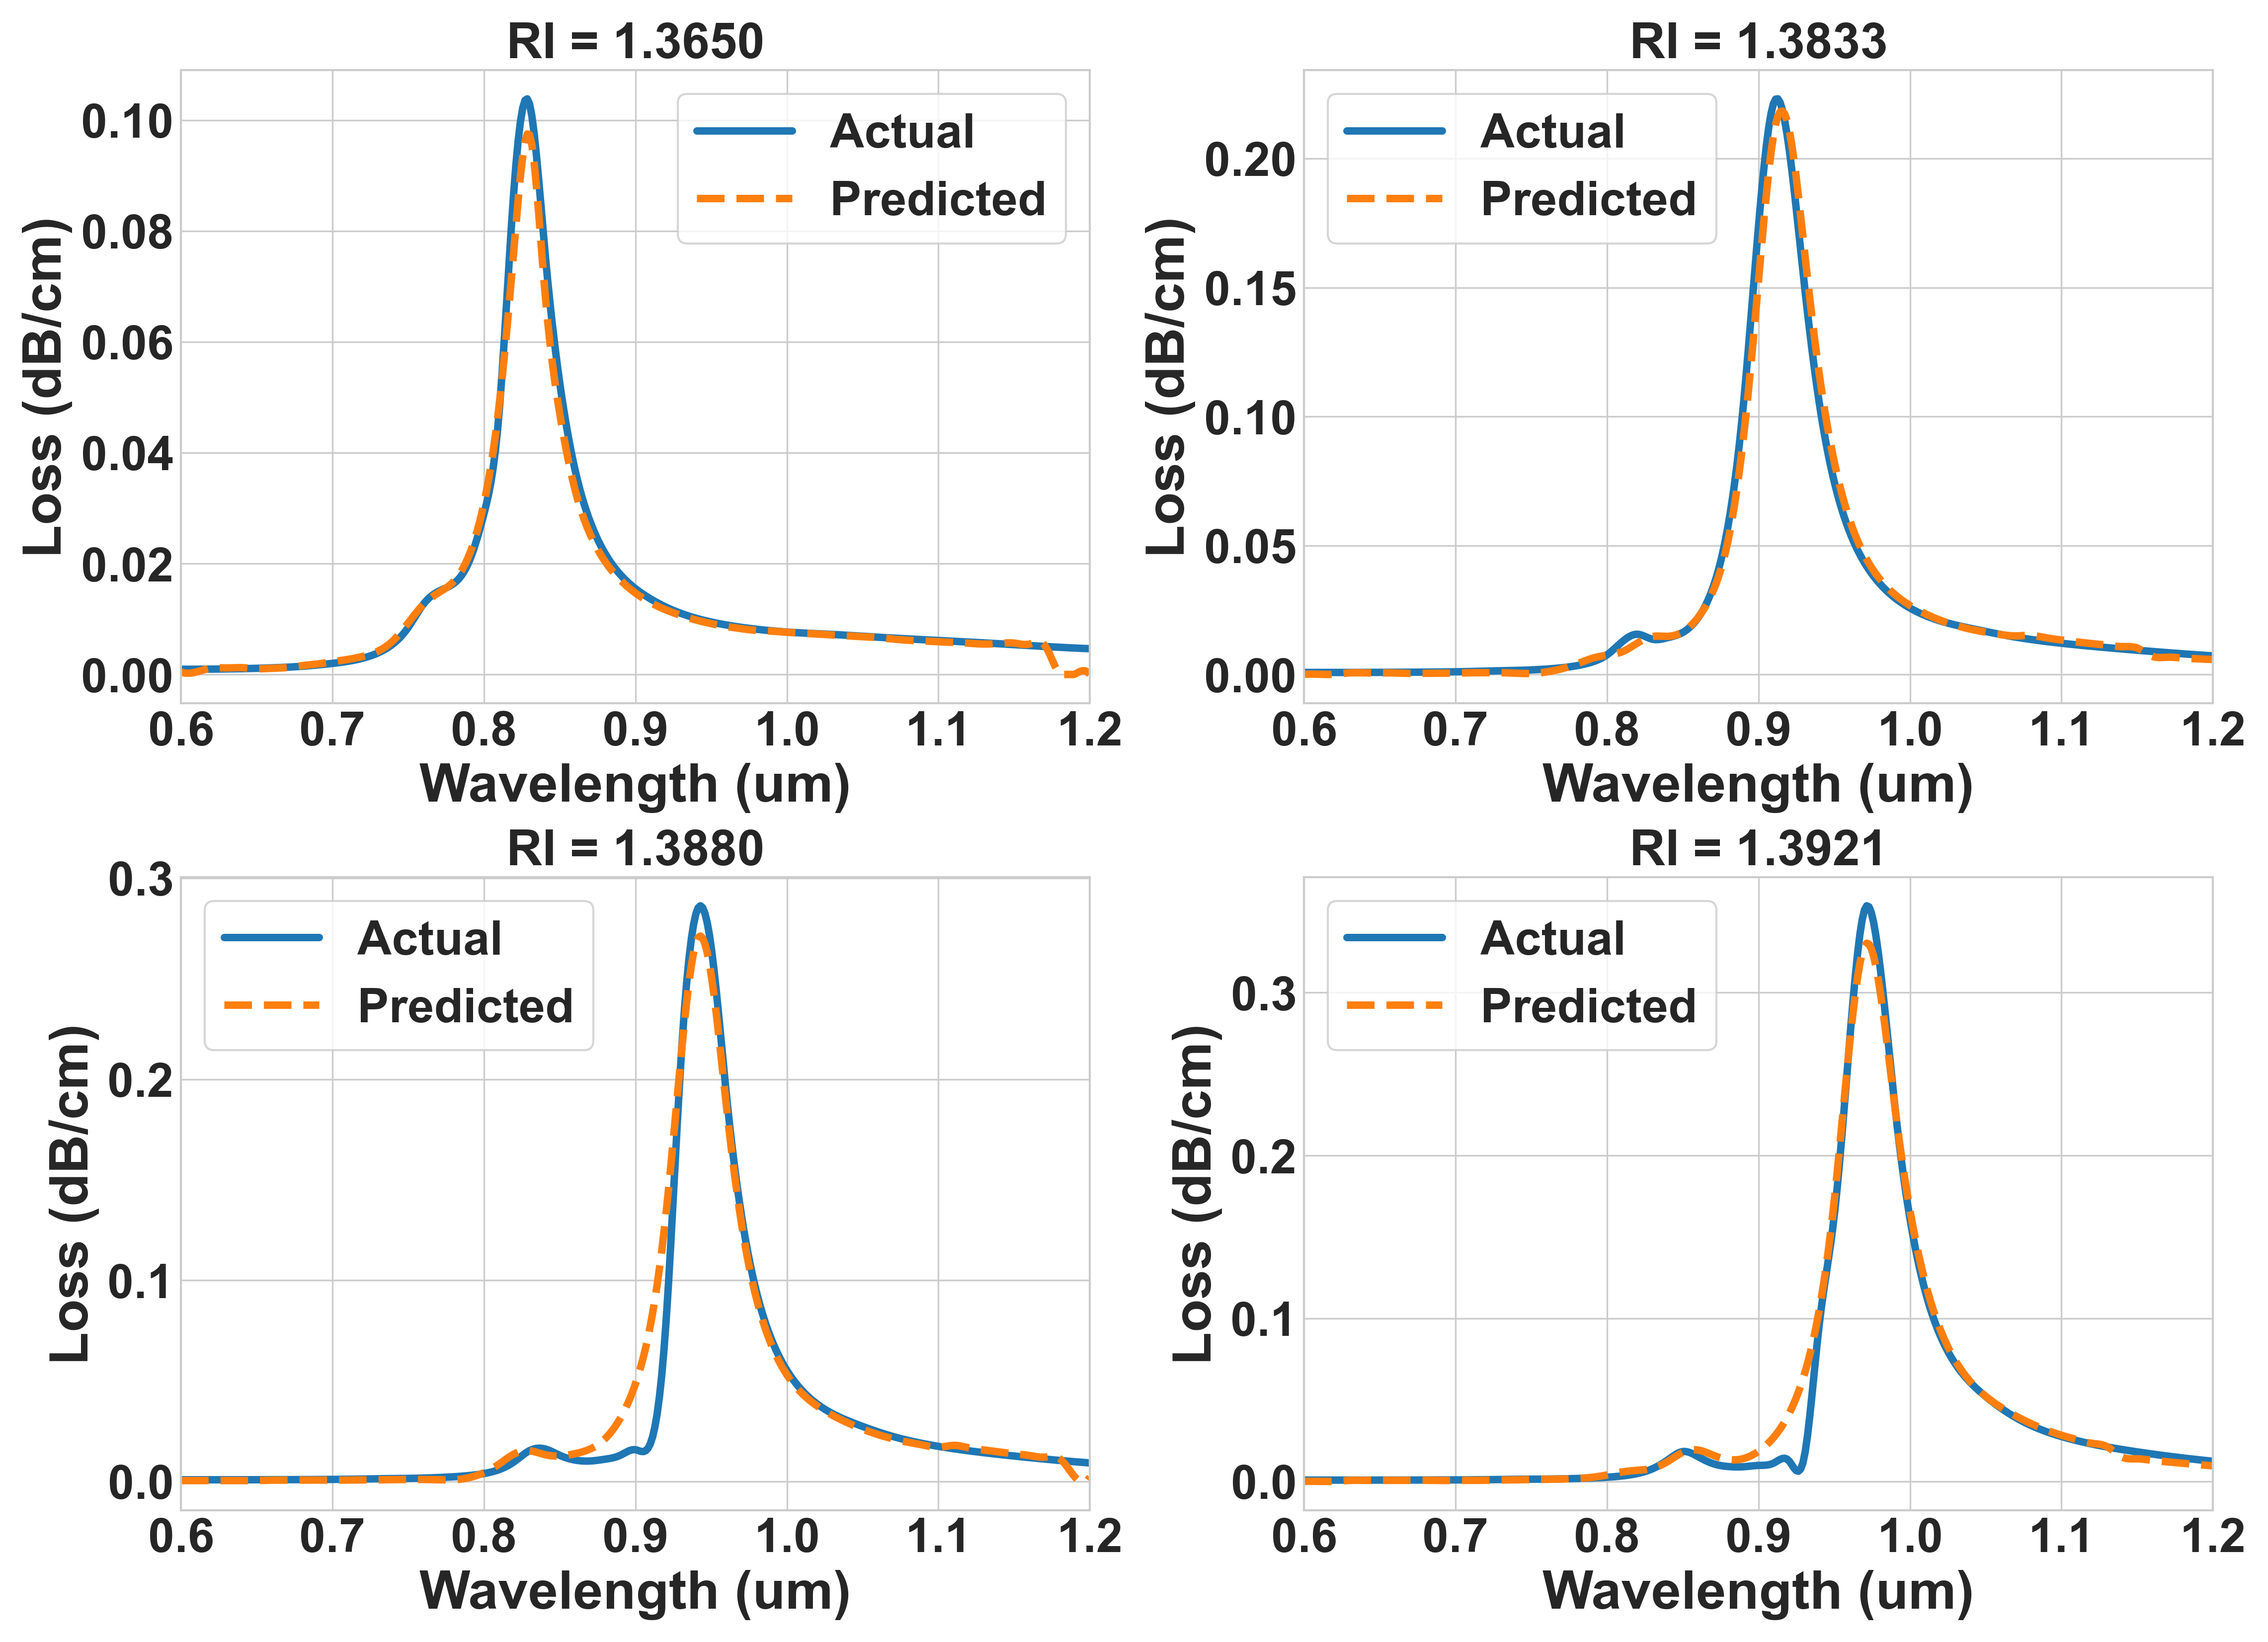
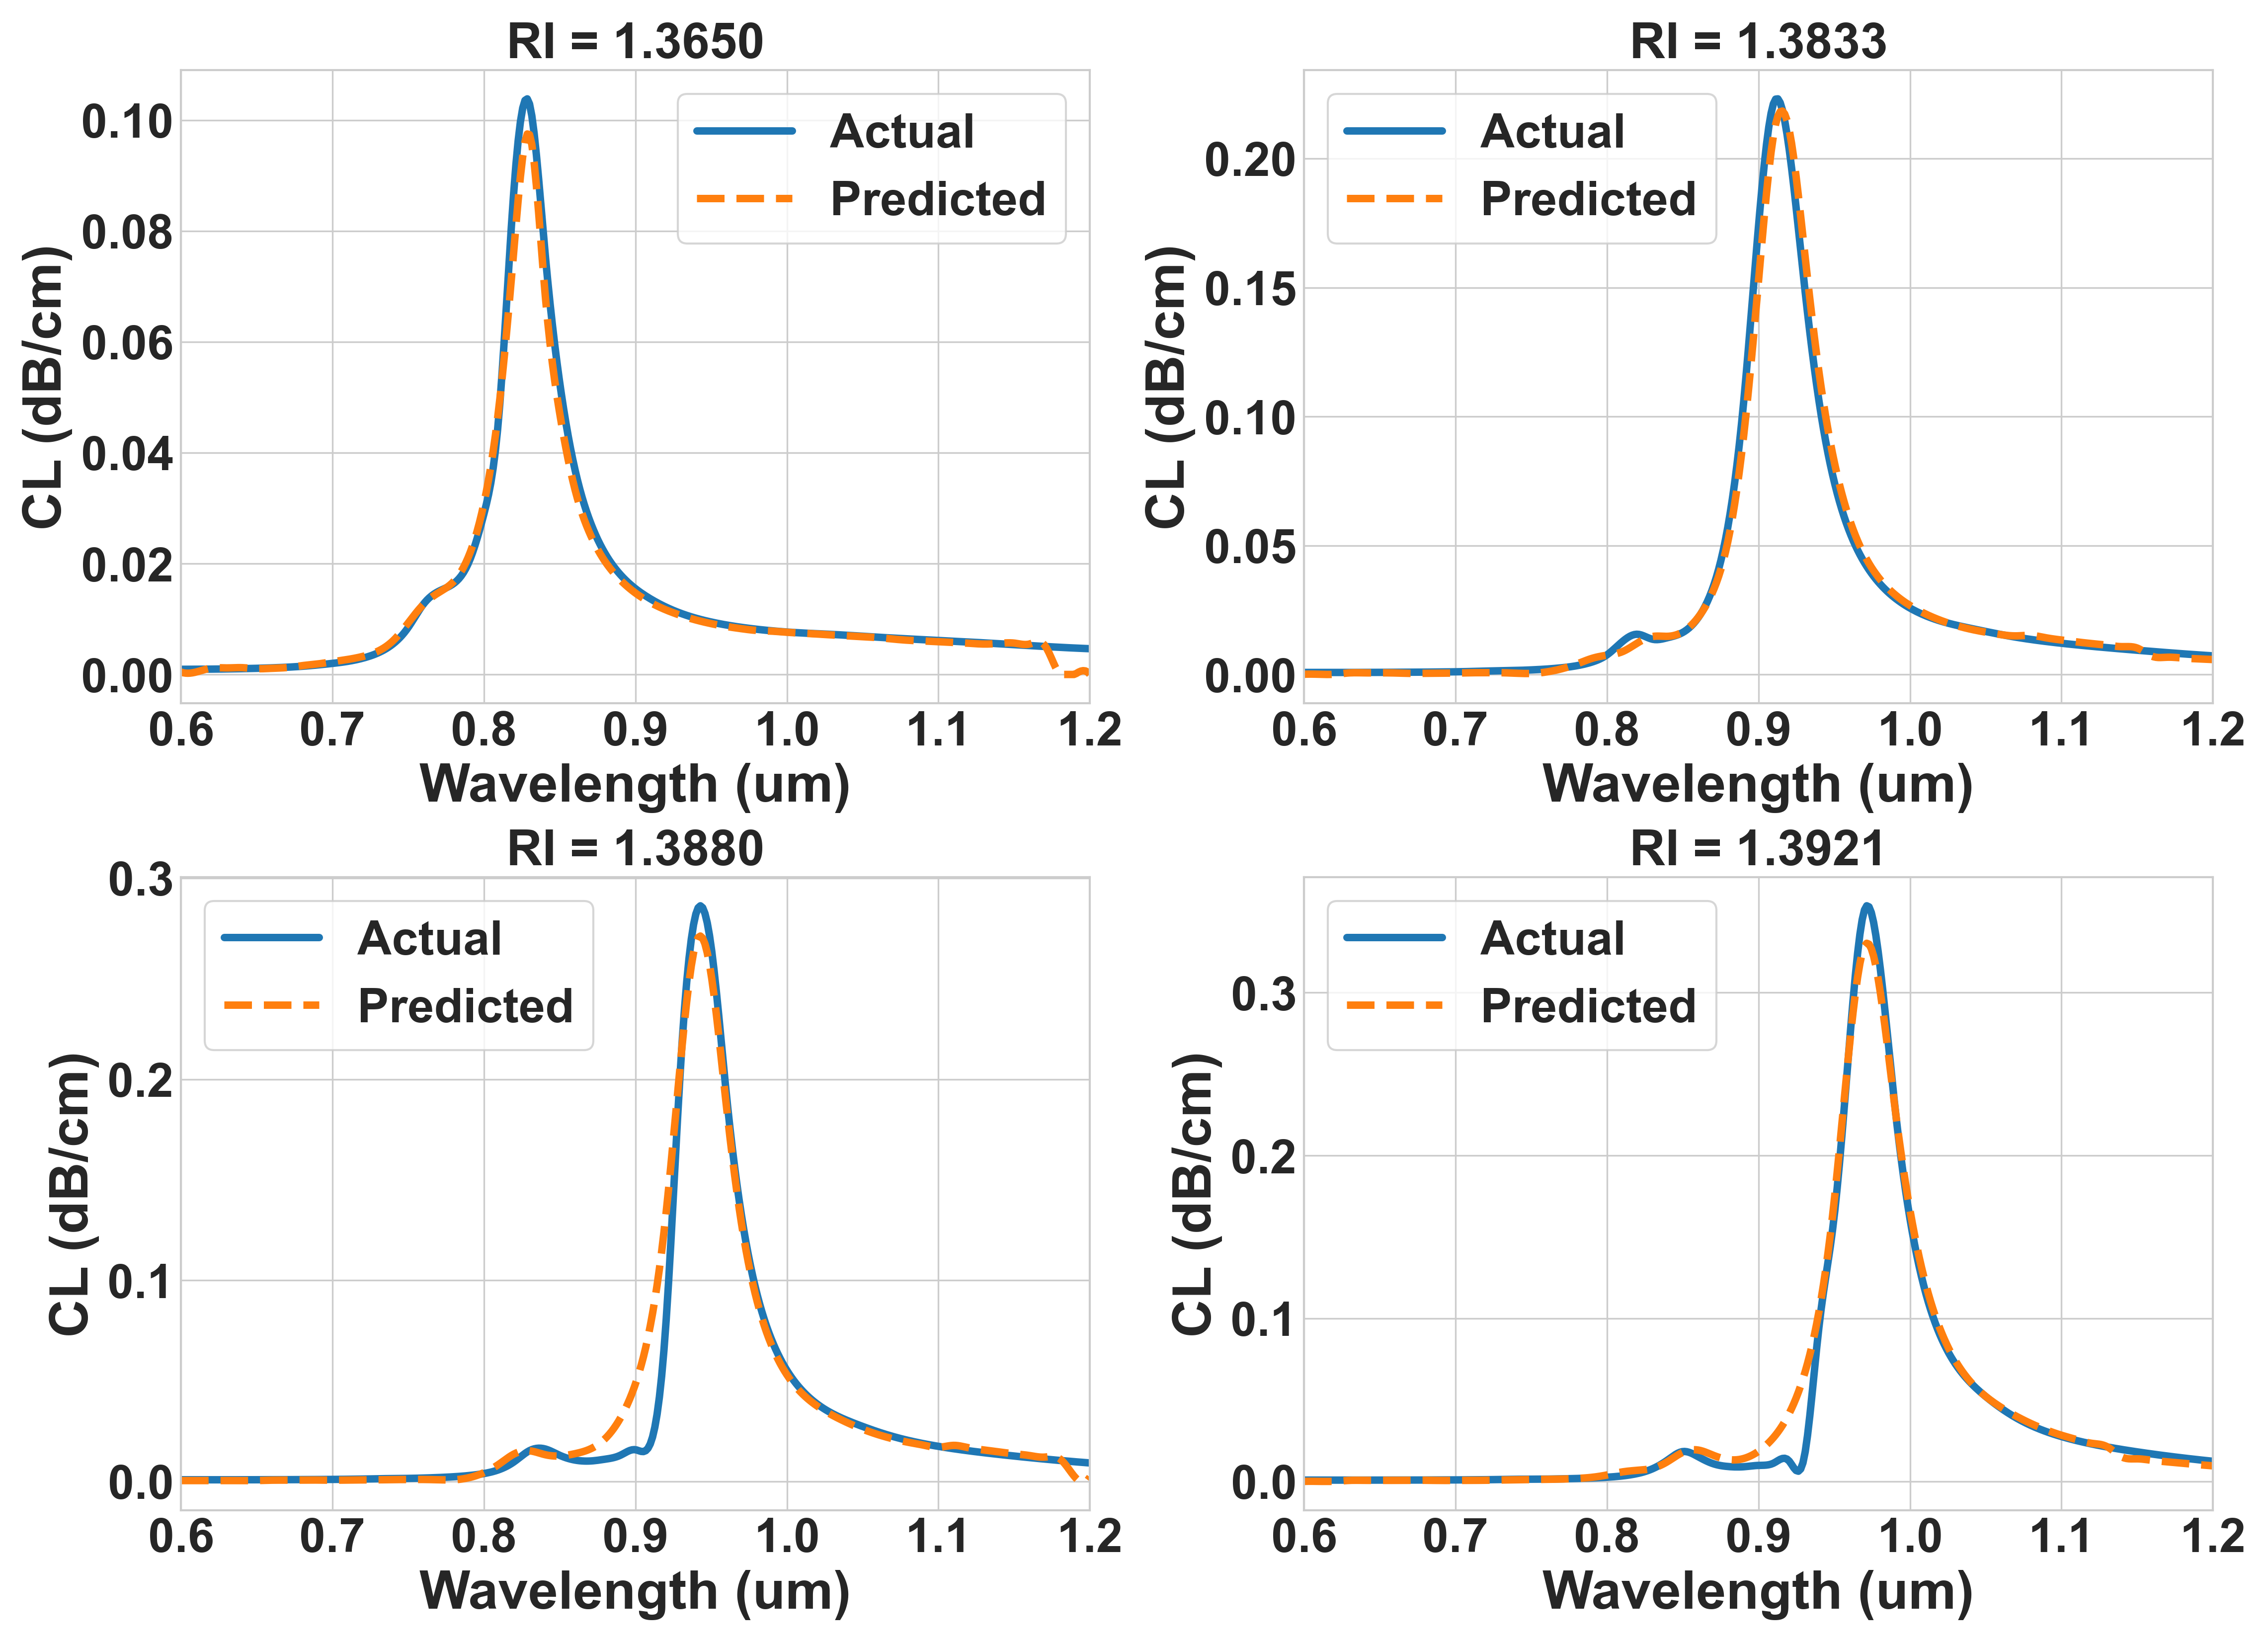
Update figure captions and labels to enhance clarity and consistency in ML paper assets

diff --git a/Research_Soumik/elsevier_single_column_pcf_spr_sensor.tex b/Research_Soumik/elsevier_single_column_pcf_spr_sensor.tex
@@ -616,12 +616,12 @@ This separates the prediction into three simpler parts: peak position, peak heig
 \hat{s}\left(\lambda-\hat{\lambda}_p\right),
 \label{eq:peak_restore}
 \end{equation}
-where $\hat{\lambda}_p$ is the predicted resonance wavelength, $\hat{z}_p=\log(\hat{A}_p)$ is the predicted logarithmic peak loss, and $\hat{s}$ is the predicted normalized shape. This alignment idea is consistent with curve registration, where phase or position variation is reduced before comparing functional responses \cite{ramsay2005functional,ramsay1998curve,marron2015functional}.
+where $\hat{\lambda}_p$ is the predicted resonance wavelength, $\hat{z}_p=\log(\hat{A}_p)$ is the predicted logarithmic peak loss, and $\hat{s}$ is the predicted normalized shape. This alignment idea is consistent with curve registration and landmark-based alignment, where identifiable features such as peaks are used to reduce phase or position variation before comparing functional responses \cite{ramsay2005functional,ramsay1998curve,james2007curve,marron2015functional}.
 
 \begin{figure}[!t]
     \centering
     \includegraphics[width=1.0\textwidth]{ML_peak_alignment.png}
-    \caption{Peak-alignment procedure used before GPR prediction: (a) original confinement loss spectra, (b) shifted spectra with resonance peaks moved to zero wavelength offset, and (c) normalized spectra after dividing by the peak loss.}
+    \caption{Peak-alignment procedure used before GPR prediction: (a) original CL spectra, (b) shifted spectra with resonance peaks moved to zero wavelength offset, and (c) normalized spectra after dividing by the peak CL, where CL denotes confinement loss.}
     \label{fig:ml_peak_alignment}
 \end{figure}
 
@@ -631,13 +631,15 @@ The testing performance of the direct GPR and peak-aligned GPR models is summari
 \centering
 \caption{Testing performance comparison between direct GPR and peak-aligned GPR.}
 \label{tab:ml_model_comparison}
-\renewcommand{\arraystretch}{1.25}
-\setlength{\tabcolsep}{4pt}
-\scriptsize
+\renewcommand{\arraystretch}{1.35}
+\setlength{\tabcolsep}{6pt}
+\small
 \resizebox{\textwidth}{!}{%
 \begin{tabular}{|l|c|c|c|c|c|}
 \hline
-\textbf{Model} & $\boldsymbol{R^2}$ & \textbf{MAE} & \textbf{RMSE} & \textbf{Mean peak WL error (\textmu m)} & \textbf{Mean peak loss error} \\
+\textbf{Model} & $\boldsymbol{R^2}$ & \textbf{MAE} & \textbf{RMSE} &
+\begin{tabular}[c]{@{}c@{}}\textbf{Mean peak WL}\\\textbf{error (\textmu m)}\end{tabular} &
+\begin{tabular}[c]{@{}c@{}}\textbf{Mean peak CL}\\\textbf{error}\end{tabular} \\
 \hline
 Direct GPR & 0.7137 & 0.01485 & 0.02995 & 0.0175 & 0.03640 \\
 \hline
@@ -683,7 +685,7 @@ $\boldsymbol{\hat{\lambda}_p}$ \textbf{(\textmu m)} & $\boldsymbol{\hat{A}_p}$ \
 \begin{figure}[!t]
     \centering
     \includegraphics[width=1.0\textwidth]{ML_peak_aligned_gpr_prediction.png}
-    \caption{Actual and predicted confinement loss spectra for the held-out pathogen RI samples using the peak-aligned GPR model.}
+    \caption{Actual and predicted CL spectra for the held-out pathogen RI samples using the peak-aligned GPR model, where CL denotes confinement loss.}
     \label{fig:ml_peak_aligned_gpr_prediction}
 \end{figure}
 

diff --git a/generate_ml_paper_assets.py b/generate_ml_paper_assets.py
@@ -74,16 +74,16 @@ def save_peak_alignment():
 
     axes[0].set_title("(a) Original", fontsize=TITLE_SIZE, weight="bold")
     axes[0].set_xlabel("Wavelength (um)", fontsize=AXIS_LABEL_SIZE, weight="bold")
-    axes[0].set_ylabel("Loss (dB/cm)", fontsize=AXIS_LABEL_SIZE, weight="bold")
+    axes[0].set_ylabel("CL (dB/cm)", fontsize=AXIS_LABEL_SIZE, weight="bold")
 
     axes[1].set_title("(b) Shifted peak", fontsize=TITLE_SIZE, weight="bold")
     axes[1].set_xlabel("Centered wavelength (um)", fontsize=AXIS_LABEL_SIZE, weight="bold")
-    axes[1].set_ylabel("Loss (dB/cm)", fontsize=AXIS_LABEL_SIZE, weight="bold")
+    axes[1].set_ylabel("CL (dB/cm)", fontsize=AXIS_LABEL_SIZE, weight="bold")
     axes[1].axvline(0, color="black", linewidth=1.8, alpha=0.5)
 
     axes[2].set_title("(c) Normalized", fontsize=TITLE_SIZE, weight="bold")
     axes[2].set_xlabel("Centered wavelength (um)", fontsize=AXIS_LABEL_SIZE, weight="bold")
-    axes[2].set_ylabel("Normalized loss", fontsize=AXIS_LABEL_SIZE, weight="bold")
+    axes[2].set_ylabel("Normalized CL", fontsize=AXIS_LABEL_SIZE, weight="bold")
     axes[2].axvline(0, color="black", linewidth=1.8, alpha=0.5)
     axes[2].axhline(1, color="black", linewidth=1.8, alpha=0.5)
 
@@ -133,7 +133,7 @@ def save_peak_aligned_prediction():
         )
         ax.set_title(f"RI = {ri:.4f}", fontsize=TITLE_SIZE, weight="bold")
         ax.set_xlabel("Wavelength (um)", fontsize=AXIS_LABEL_SIZE, weight="bold")
-        ax.set_ylabel("Loss (dB/cm)", fontsize=AXIS_LABEL_SIZE, weight="bold")
+        ax.set_ylabel("CL (dB/cm)", fontsize=AXIS_LABEL_SIZE, weight="bold")
         ax.set_xlim(0.6, 1.2)
         ax.tick_params(axis="both", labelsize=TICK_LABEL_SIZE)
         for label in ax.get_xticklabels() + ax.get_yticklabels():